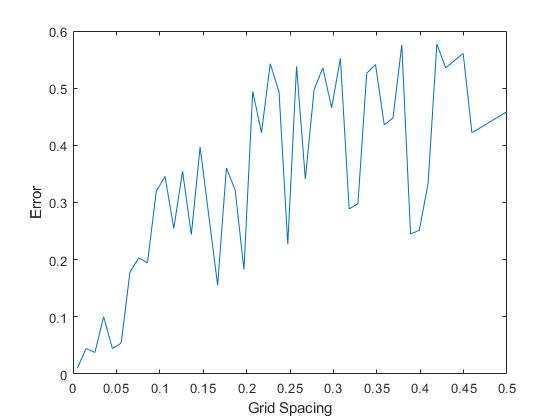
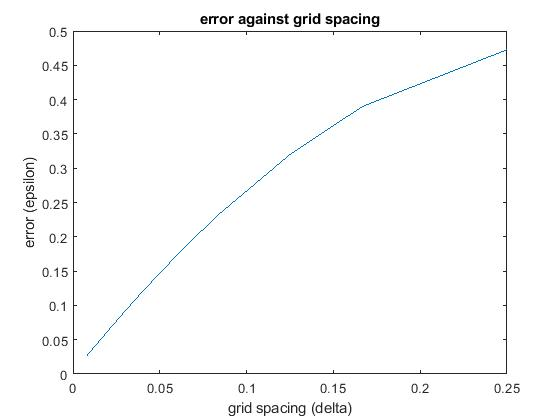
gaming

diff --git a/enme302/assn2/Copy_of_assn2combined.m b/enme302/assn2/Copy_of_assn2combined.m
@@ -9,11 +9,10 @@ s = 0;
 c = 6;
 n = 10; % spatial grid points
 grid_size = 1; % physical size of grid
-t_n = 500; % number of time points
+t_n = 200; % number of time points
 t_f = 1; % end time of sim
 
 animated_plot = 1;
-gif = 0;
 
 delta = grid_size/n;
 dt = t_f/t_n;
@@ -22,14 +21,14 @@ lambda = c*dt/delta;
 lambda2 = lambda*lambda;
 
 % ANALYTICAL SOLUTION
-fourier_limit = 5;
+a_lim = 5;      % number of fourier series terms
+b_lim = 5;      % "" ""
 
 u_a = @(x, y, t) 0;
 
-for b = 1:fourier_limit
-    for a = 1:fourier_limit
+for b = 1:1:b_lim
+    for a = 1:1:a_lim
         u_a = @(x, y, t) u_a(x, y, t) + (576/pi^6) .* (((1 + (-1)^(a+1)) * (1+(-1)^(b+1))) / (a^3*b^3)).*sin(a.*pi./2.*x).*sin(b.*pi./3.*y).*cos(pi.*sqrt(9.*a.^2+4.*b.^2).*t);
-        u_a(1, 1, 1)
     end
 end
 
@@ -52,56 +51,40 @@ for i = 1:t_n
     results_analytical(:,:,i) = u_a(X, Y, t(i));
 end
 
+figure()
+%surf(X,Y, u_initial) % display initial conditions for verification
+
 % loop to find solutions, use if statements for boundary conditions
-u = zeros(length(y), length(x), length(t));     % preallocate u for speed
-u(:,:,1) = u_initial;
-u(:,:,2) = u_initial;
-for k = 2:length(t)
-    for j = 1:length(y)
-        for i = 1:length(x)
-            % enforcing boundary conditions
-            if i == 1 || j == 1 || i == length(x) || j == length(y) 
-                u(j,i,k+1) = 0;
+results_numerical = zeros(length(y), length(x), length(t));
+results_numerical(:,:,1) = u_initial;
+surf(x,Y,results_numerical(:,:,1))
+for k = 1:t_n
+    for i = 1:length(x)-1     
+        for j = length(y)-1
+            if i == 1 || j == 1 || i == length(x) || j == length(y) %% enforcing boundary conditions
+                results_numerical(j,i,k+1) = 0
+            elseif k == 1
+                results_numerical(j,i,k+1) = 2*(1-2*lambda2).*results_numerical(j,i,k) + lambda2.*(results_numerical(j+1,i,k) + results_numerical(j-1,i,k) + results_numerical(j,i+1,k) + results_numerical(j,i-1,k));
             else
-                u(j,i,k+1) = 2*(1-2*lambda2)*u(j,i,k)+lambda2*(u(j,i+1,k)+u(j,i-1,k)+u(j+1,i,k)+u(j-1,i,k))-u(j,i,k-1);
-            end
+                results_numerical(j,i,k+1) = 2*(1-2*lambda2).*results_numerical(j,i,k) + lambda2.*(results_numerical(j+1,i,k) + results_numerical(j-1,i,k) + results_numerical(j,i+1,k) + results_numerical(j,i-1,k)) - results_numerical(j,i,k-1);
+            end         
         end
     end
 end
 
 figure()
 
-errors = zeros(length(y), length(x), length(t));
-for time = 1:length(t)
-    errors(:,:,time) = results_analytical(:,:,time) - u(:,:,time);
-end
-
 if animated_plot
-    if gif
-    filename = 'combined_solutions.gif';
-    gif(filename)
-    end
     for time = 1:t_n
-        
-        subplot(1,3,1)
-        surf(X, Y, u(:,:,time));
+        subplot(1,2,1)
+        surf(X, Y, results_numerical(:,:,time));
         axis([0 L 0 H -2.5 2.5]);
         title('numerical solution')
-        subplot(1,3,2)
+        subplot(1,2,2)
         surf(X, Y, results_analytical(:,:,time));
         axis([0 L 0 H -2.5 2.5]);
         title('analytical solution')
-        subplot(1,3,3)
-        surf(X,Y,errors(:,:,time))
-        axis([0 L 0 H -0.15 0.15]);
-        title('error')
-        if gif
-        if time == 1
-            gif(filename)
-        else 
-            gif('DelayTime', 1/60)
-        end
-        end
+        pause(1/60)
     end
 end
 
@@ -111,19 +94,12 @@ num_plots = 10;
 for time = 1:t_n/num_plots:t_n
     formatspec = 't = %.2f s';
     legendstr = sprintf(formatspec, time);
-    subplot(1,2,1)
-    plot(u(round(n*H/2), :, time), 'Color',[1-colour,0,colour], 'DisplayName', legendstr);
-    hold on
-    legend
-    title("u(x, H/2, t) for various times, numerical solution")
-    subplot(1,2,2)
-    plot(results_analytical(round(n*H/2), :, time), 'Color',[1-colour,0,colour], 'DisplayName', legendstr);
+    plot(results_numerical(round(n*H/2), :, time), 'Color',[1-colour,0,colour], 'DisplayName', legendstr);
     colour = colour + 1/num_plots;
     hold on
     legend
-    title("u(x, H/2, t) for various times, analytical solution")
 end
-
+title("u(x, H/2, t) for various times, numerical solution")
 
 figure()
 

diff --git a/enme302/assn2/manufactured_solutions.m b/enme302/assn2/manufactured_solutions.m
@@ -10,15 +10,15 @@ c = 6;
 g = @(x, y, t) 0.5 .* u_e(x, y, t);
 s = @(x, y, t) 2.*c^2 .* (1 + 0.5.*t) .* (y .* (H-y) + x .* (L-x)); 
 
-lambda = 0.6; % constant courant number
+lambda = 0.4; % constant courant number
 lambda2 = lambda^2;
 
-delta = 0.05;
+delta = 0.2;
 
 animated_plot = 0;
 
 grid_size = 1; % physical size of grid
-t_f = 2; % end time of sim
+t_f = 5; % end time of sim
 
 n = round(grid_size/delta); % calculating spatial grid points to maintain constant courant number
 
@@ -34,7 +34,7 @@ t = linspace(0,t_f,t_n);
 [X,Y] = meshgrid(x, y);
 
 u_initial = u_e(X, Y, 0);
-
+results_analytical = zeros(length(y), length(x), length(t));
 for i = 1:t_n
     results_analytical(:,:,i) = u_e(X, Y, t(i));
     surf(results_analytical(:,:,i));
@@ -43,10 +43,12 @@ end
 
 % loop to find solutions, use if statements for boundary conditions
 u_c = u_initial;
+results_numerical = zeros(length(y), length(x), length(t));
 for k = 1:t_n
-    for i = 1:n*L     
-        for j = 1:n*H
-            if i == 1 || j == 1 || i == n*L || j == n*H %% enforcing boundary conditions
+    u_n = zeros(length(y), length(x));
+    for i = 1:length(x)     
+        for j = 1:length(y)
+            if i == 1 || j == 1 || i == length(x) || j == length(y) %% enforcing boundary conditions
                 u_n(j,i) = 0;
             else
                 if k == 1 % implementing special case for first time step, using ghost node to implement V.N. B.C.
@@ -62,27 +64,37 @@ for k = 1:t_n
     results_numerical(:,:,k) = u_n;
 end
 
-figure()
-
+if animated_plot
+filename = 'manufactured solutions.gif';
+gif(filename)
 for time = 1:t_n
     subplot(1,2,1)
-    surf(results_numerical(:,:,time));
-    axis([0 n*L 0 n*H -2.5 2.5]);
+    surf(X, Y, results_numerical(:,:,time));
+    axis([0 L 0 H]);
     title('numerical solution')
     subplot(1,2,2)
-    surf(results_analytical(:,:,time));
-    axis([0 n*L 0 n*H -2.5 2.5]);
+    surf(X, Y, results_analytical(:,:,time));
+    axis([0 L 0 H]);
     title('analytical solution')
-    pause(1/60)
+    if time == 1
+        gif(filename);
+    else
+        gif('DelayTime', 1/60)
+    end
+end
 end
 
 figure()
-results = []
-for time = 1:t_n
-    results = [results results_numerical(round(n*H/2), round(n*L/2), time)];
-    clc
-    fprintf("iteration %d of %d\n", time, t_n)
-    fprintf("progress: %.2f%% \n", time/t_n*100)
+epsilon_array = zeros(1, length(t));
+for time = 1:length(t)
+    tosum = (results_numerical(:,:,time) - results_analytical(:,:,time)).^2;
+    sum2 = sum(tosum, 'all');
+    eps = sqrt(delta^2.*sum2);
+    epsilon_array(time) = eps;
 end
 
-plot(t, results)
+plot(t, epsilon_array)
+xlabel('Time elapsed [s]')
+ylabel('Error (epsilon) [m]')
+title('Error against elapsed time')
+

diff --git a/enme302/assn2/assn2combinedwitheps.m b/enme302/assn2/assn2combinedwitheps.m
@@ -10,7 +10,8 @@ c = 6;
 
 lambda = 0.25; % constant courant number
 lambda2 = lambda^2;
-nx = [2 4 8 16 32 64 128];
+nx = [8 12 16 24 32 48 56 64 72 96 108 128 192 256];
+nx = fliplr(nx)
 % n_iterations = 20
 % nx = linspace(4, 4*n_iterations, n_iterations)
 
@@ -38,8 +39,8 @@ for b = 1:taylor_expansions
 end
 
 
-x = linspace(0,L,n*L);
-y = linspace(0,H,n*H);
+x = linspace(0,L,n);
+y = linspace(0,H,ny);
 t = linspace(0,t_f,t_n);
 
 [X,Y] = meshgrid(x, y);
@@ -53,8 +54,8 @@ for i = 1:length(x)
         u_initial(j,i) = x(i).*y(j).*(L-x(i)).*(H-y(j));
     end
 end
-figure()
-surf(u_initial)
+% figure()
+% surf(X,Y,u_initial)
 
 results_analytical = zeros(length(y), length(x), length(t));
 for i = 1:t_n
@@ -62,30 +63,36 @@ for i = 1:t_n
 end
 
 % loop to find solutions, use if statements for boundary conditions
-u_p = u_initial;
-u_c = u_initial;
-results_numerical = zeros(length(y), length(x), length(t));
-for k = 1:t_n
-    u_n = zeros(length(y), length(x));
-    for i = 1:length(x)     
-        for j = 1:length(y)
-            if i == 1 || j == 1 || i == length(x)  || j == length(y)  %% enforcing boundary conditions
-                u_n(j,i) = 0;
+u = zeros(length(y), length(x), length(t));     % preallocate u for speed
+u(:,:,1) = u_initial;
+u(:,:,2) = u_initial;
+for k = 2:length(t)
+    for j = 1:length(y)
+        for i = 1:length(x)
+            % enforcing boundary conditions
+            if i == 1 || j == 1 || i == length(x) || j == length(y) 
+                u(j,i,k+1) = 0;
             else
-                u_n(j,i) = 2*(1-2*lambda2)*u_c(j,i) + lambda2*(u_c(j+1,i) + u_c(j-1,i) + u_c(j,i+1) + u_c(j,i-1)) - u_p(j,i);
-            end         
+                u(j,i,k+1) = 2*(1-2*lambda2)*u(j,i,k)+lambda2*(u(j,i+1,k)+u(j,i-1,k)+u(j+1,i,k)+u(j-1,i,k))-u(j,i,k-1);
+            end
         end
     end
-    u_p = u_c;
-    u_c = u_n;
-    results_numerical(:,:,k) = u_n;
 end
 
 % calculating epsilon
-tosum = (results_numerical(:,:,end) - results_analytical(:,:,end)).^2;
+% figure()
+% surf(X,Y,u(:,:,end))
+% title('numerical')
+% figure()
+% surf(X,Y,results_analytical(:,:,end))
+% title('analytical')
+tosum = (u(:,:,end-1) - results_analytical(:,:,end)).^2;
 sum2 = sum(tosum, 'all');
 
 eps = sqrt(delta^2.*sum2);
 epss = [epss eps];
 end
-plot(fliplr(deltas), epss)
+plot(deltas, epss)
+title('error against grid spacing')
+xlabel('grid spacing (delta)')
+ylabel('error (epsilon)')

diff --git a/enme302/assn2/fourier_gen.m b/enme302/assn2/fourier_gen.m
@@ -1,0 +1,13 @@
+clear; close all; clc
+
+fourier_terms = 5;
+
+syms x y t
+eqn1 = 0
+for a = 1:fourier_terms
+    for b = 1:fourier_terms
+        eqn1 = eqn1 + ((1+(-1)^(a+1))*(1+(-1)^(b+1)))/(a^3*b^3)*sin(a*pi/2*x)*sin(b*pi/3*y)*cos(pi*sqrt(9*a^2+4*b^2)*t)
+    end
+end
+
+subs(eqn1, {x,y,t}, [1,1,1])

diff --git a/enme302/assn2/non_uniform_grid.m b/enme302/assn2/non_uniform_grid.m
@@ -68,3 +68,5 @@ grid_points = zeros(1,N);
 grid_points(1, 1:n) = X;
 grid_points(1, n+1:N) = L-fliplr(X);
 end
+
+
